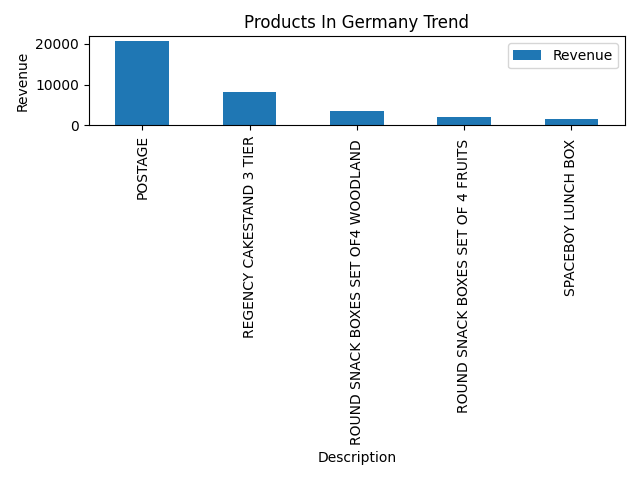
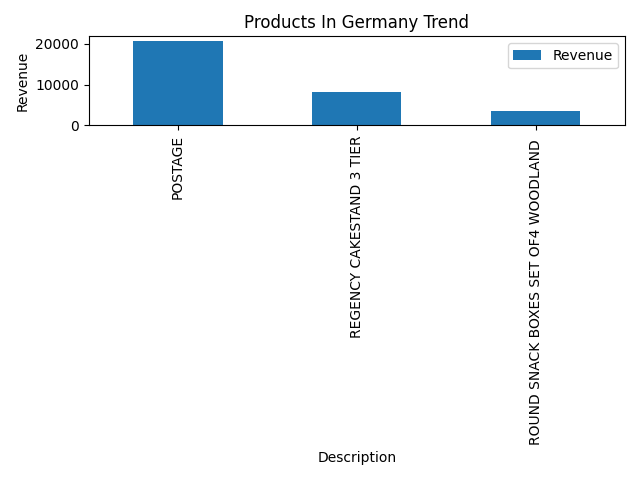
Day 17: Fix category detection for 'revenue by month' queries and add synonyms for monthly revenue

diff --git a/src/qa_prototype.py b/src/qa_prototype.py
@@ -21,11 +21,11 @@ class QAPrototype:
         # Synonyms for query types
         self.queries = {
             "customers": ["customer", "customers", "users", "buyers"],
-            "revenue": ["revenue", "sales", "income"],
             "countries": ["country", "countries", "nation", "region"],
             "products": ["product", "products", "item", "sku"],
-            "monthly_revenue": ["monthly revenue", "sales trend", "trend"],
-            "transactions": ["transaction", "transactions", "orders", "purchases"]
+            "monthly_revenue": ["monthly revenue", "sales trend", "trend", "revenue by month"],
+            "transactions": ["transaction", "transactions", "orders", "purchases"],
+            "revenue": ["revenue", "sales", "income"]
         }
 
         # Metadata defines CSV, columns, and behavior for each category
@@ -76,14 +76,56 @@ class QAPrototype:
                 "plot": False
             }
         }
-    
+
+        # map common short names/aliases -> canonical country name as in your CSV
+        self.country_map = {
+            "uk": "United Kingdom",
+            "u.k.": "United Kingdom",
+            "gb": "United Kingdom",
+            "great britain": "United Kingdom",
+            "us": "United States",
+            "usa": "United States",
+            "eire": "EIRE",          
+            "ireland": "EIRE",
+        }
+
+        self.category_priority = {
+            "monthly_revenue": 5,
+            "countries": 4,
+            "products": 3,
+            "transactions": 2,
+            "customers": 1,
+            "revenue": 0
+        }
+
+    def normalize_country(self, raw_country:str) -> str:
+        """
+        Normalize a country string from user input to the canonical form
+        used in your CSVs. Uses self.country_map; falls back to title-case.
+        """
+        if not raw_country:
+            return raw_country
+        
+        key = raw_country.strip().lower().replace(".",  "")
+        key = re.sub(r"\s+", " ", key)
+        mapped = self.country_map.get(key)
+        if mapped:
+            return mapped
+        return raw_country.strip().title()
+        
     def detect_category(self, query: str):
         """Detect category using synonyms."""
         q = query.lower()
+        matches = []
         for cat, words in self.queries.items():
             if any(i in q for i in words):
-                return cat
-        return None
+                matches.append((cat, self.category_priority.get(cat,0)))
+        
+        if not matches:
+            return None
+        
+        matches.sort(key= lambda x:x[1], reverse=True)
+        return matches[0][0]
     
     def extract_top_n(self, query:str, default=5):
         """Extract Top N from query, default=5."""
@@ -124,17 +166,23 @@ class QAPrototype:
     def handle_products_in_country(self, query, n):
         country_match = re.search(r"(?:in|from) ([\w\s]+)", query, re.IGNORECASE)
         if country_match:
-            country = country_match.group(1).strip().title()
+            raw = country_match.group(1).strip()
+            country = self.normalize_country(raw)
             tx_file = os.path.join(self.summary_folder, "transactions.csv")
             if os.path.exists(tx_file):
                 tx = pd.read_csv(tx_file)
-                top_n = self.extract_top_n(query)
+                tx_country_norm = tx["Country"].astype(str).str.strip().str.lower()
+                target_norm = country.lower()
+                tx_filter = tx[tx_country_norm == target_norm]
+                if tx_filter.empty:
+                    print(f"⚠ No transactions found for country: {country}")
+                    return True
                 df_country = (
-                    tx[tx["Country"] == country]
+                    tx_filter
                     .groupby("Description")["Revenue"].sum().nlargest(n).reset_index()
                 )
                 self.plot_chart(df_country, "Description", "Revenue", f"products_in_{country}", "bar")
-                print(f"\nTop {top_n} Products in {country}")
+                print(f"\nTop {n} Products in {country}")
                 print("-"*40)
                 print(df_country.to_string(index=False))
                 return True
@@ -143,16 +191,22 @@ class QAPrototype:
     def handle_transactions_in_country(self, query):
         country_match = re.search(r"(?:in|from) ([\w\s]+)", query, re.IGNORECASE)
         if country_match:
-            country = country_match.group(1).strip().title()
+            raw = country_match.group(1).strip()
+            country = self.normalize_country(raw)
             tx_file = os.path.join(self.summary_folder, "transactions.csv")
             if os.path.exists(tx_file):
                 tx = pd.read_csv(tx_file)
-                df_tx = tx[tx["Country"] == country]
+                tx_country_norm = tx["Country"].astype(str).str.strip().str.lower()
+                target_norm = country.lower()
+                tx_filter = tx[tx_country_norm == target_norm]
+                if tx_filter.empty:
+                    print(f"⚠ No transactions found for country: {country}")
+                    return True
                 print(f"\nTransactions in {country}")
                 print("-"*40)
-                print(df_tx.head(10).to_string(index=False))
-                print(f"\nTotal Transactions: {len(df_tx)}")
-                print(f"Total Revenue: {df_tx['Revenue'].sum():,.2f}")
+                print(tx_filter.head(10).to_string(index=False))
+                print(f"\nTotal Transactions: {len(tx_filter)}")
+                print(f"Total Revenue: {tx_filter['Revenue'].sum():,.2f}")
                 return True
         return False
     
@@ -190,7 +244,7 @@ class QAPrototype:
     
     def fallback_response(self):
         print("Sorry, I don’t know how to answer that yet.")
-        print("Try asking about customers, revenue, countries, products, or monthly trends.")
+        print("Try asking about customers, revenue, countries, products, transactions, or monthly trends.")
     
     def log_query(self, query:str, category: str = None, status:str = "success"):
         """Log user queries with detected category and status."""
